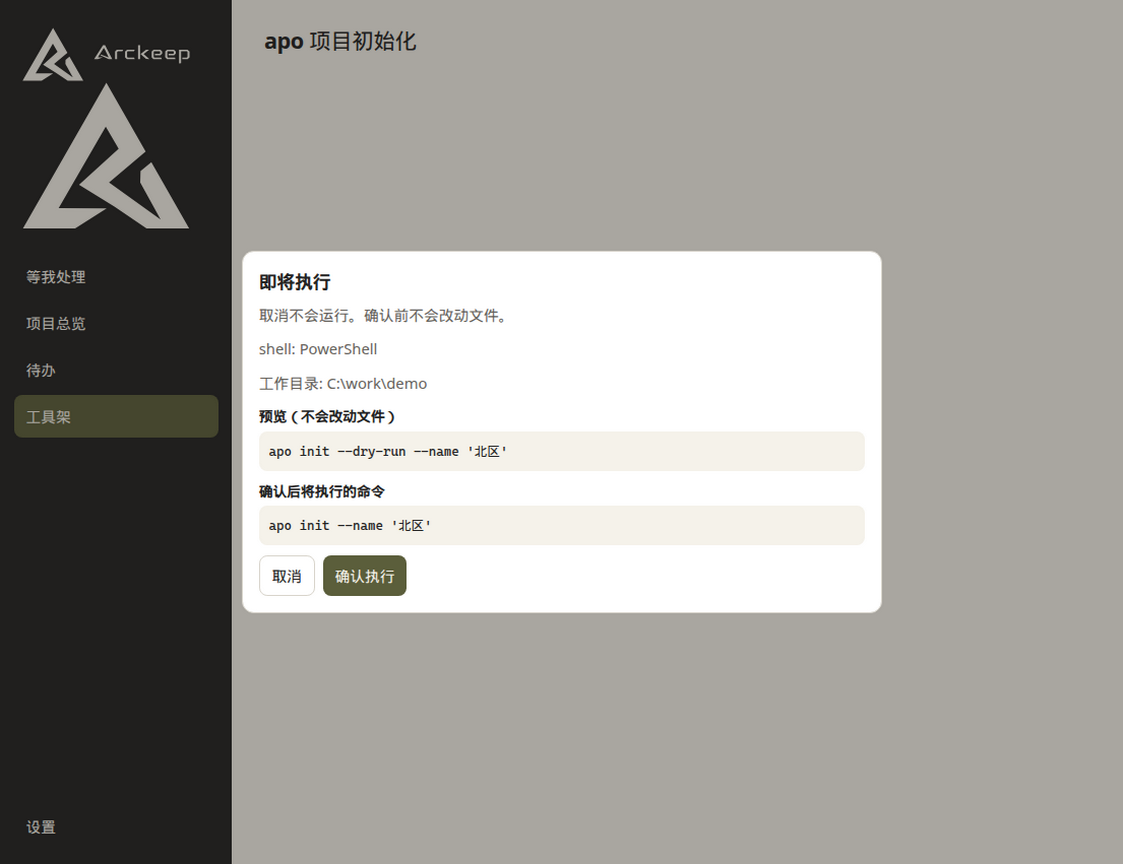
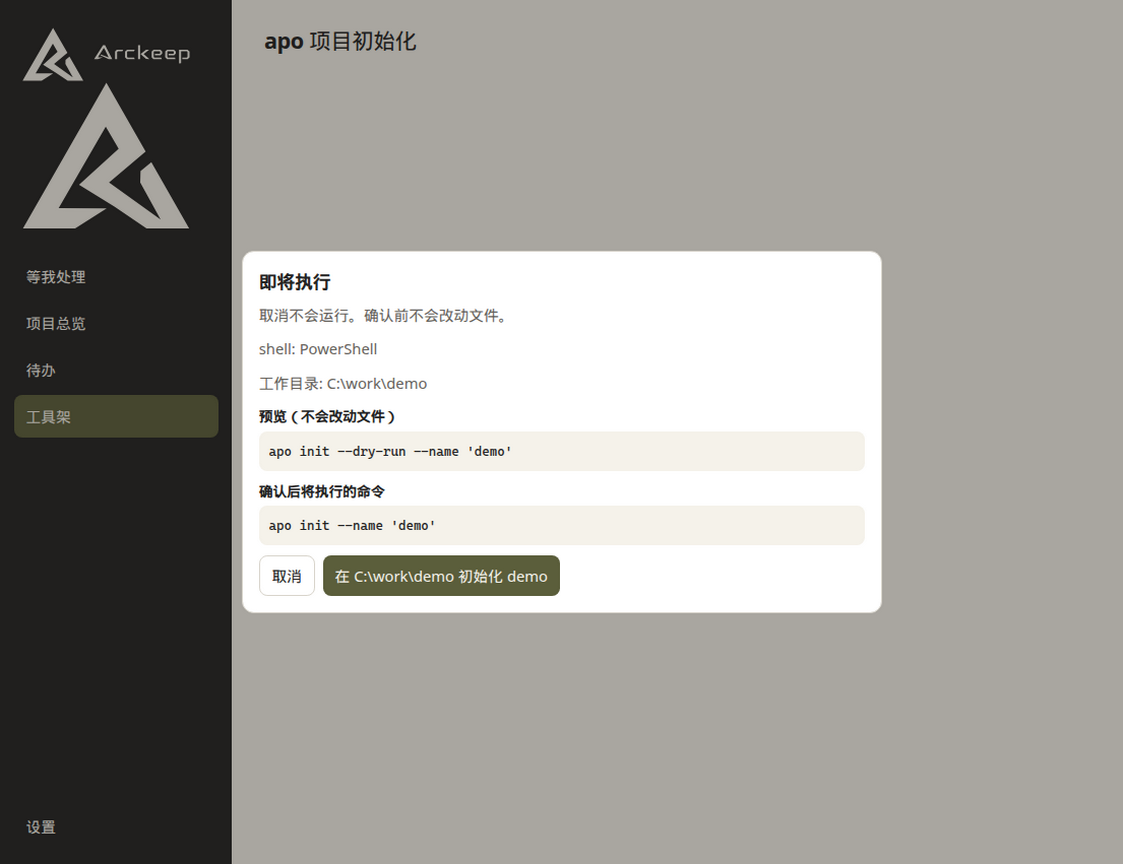
#5 工具架：确认按钮写明实际后果
卡片不再用「演练」或「确认前不会运行」描述会真正执行的初始化。预览里的确认按钮改成带已填参数的动作，例如在指定目录初始化、用编辑器打开、复制派工说明。

Changed region(s): [[0.2805, 0.5938, 0.4987, 0.6875], [0.4052, 0.5, 0.4675, 0.5312]]

diff --git a/test/tool-validate.test.ts b/test/tool-validate.test.ts
@@ -4,7 +4,7 @@ import { toolShelfExampleText } from '../src/main/tool-assets.js'
 import { cmdScriptFromPlan, planShell, powershellScriptFromPlan } from '../src/main/tool-launch.js'
 import { validateToolShelfText } from '../src/main/tool-validate.js'
 import { indexToLocation } from '../src/shared/tools/locate.js'
-import { copyFeedback, errorLine, filterActions, runStatus } from '../src/shared/tools/present.js'
+import { confirmButtonLabel, copyFeedback, errorLine, filterActions, runStatus } from '../src/shared/tools/present.js'
 import { buildPreview } from '../src/shared/tools/preview.js'
 import { powershellLaunchScript } from '../src/shared/tools/quote.js'
 import { collectKnownRepos } from '../src/shared/tools/repos.js'
@@ -25,6 +25,14 @@ describe('tool shelf schema', () => {
     expect(text).not.toMatch(/C:\\Users\\/i)
     expect(text).not.toMatch(/\/home\//)
     expect(text).not.toContain('Dylan5237')
+    expect(text).not.toContain('演练')
+    expect(text).not.toContain('确认前不会运行')
+    for (const action of result.config.actions) {
+      expect(action.title).not.toContain('演练')
+      expect(action.title).not.toContain('确认前不会运行')
+      expect(action.description ?? '').not.toContain('演练')
+      expect(action.description ?? '').not.toContain('确认前不会运行')
+    }
     expect(text).toContain('C:\\\\work\\\\demo')
     expect(text).toContain('apo init --dry-run')
     const apo = result.config.actions[2]
@@ -161,6 +169,17 @@ describe('run outcome, copy, and known repositories', () => {
     const local = buildPreview(open, { repo: 'C:\\work\\notes' }, 'C:\\work\\demo', known)
     expect(local).toMatchObject({ type: 'open-folder', text: 'C:\\work\\notes' })
     expect(() => buildPreview(open, { repo: 'Dylan5237/arckeep' }, 'C:\\work\\demo', known)).toThrow(/已知仓库/)
+  })
+
+  it('names the confirm button after the filled-in effect', () => {
+    const validated = validateToolShelfText(toolShelfExampleText())
+    if (!validated.ok) throw new Error(validated.error)
+    const [openRepo, openFolder, init, note] = validated.config.actions
+    expect(confirmButtonLabel(openRepo, { repo: 'owner/repo' })).toBe('打开 owner/repo')
+    expect(confirmButtonLabel(openFolder, { folder: 'owner/repo' })).toBe('用编辑器打开 owner/repo')
+    expect(confirmButtonLabel(init, { cwd: 'C:\\work\\demo', name: 'demo' })).toBe('在 C:\\work\\demo 初始化 demo')
+    expect(confirmButtonLabel(note, { project: '北区', task: '补齐验收步骤', due: '本周五' })).toBe('复制派工说明')
+    expect(confirmButtonLabel(init, { cwd: 'C:\\work\\demo', name: 'demo' })).not.toBe('确认执行')
   })
 
   it('filters the shelf as the query is typed', () => {

diff --git a/src/main/screenshot-tools.ts b/src/main/screenshot-tools.ts
@@ -49,6 +49,7 @@ const shelfActions: ToolAction[] = [
     id: 'open-repo',
     title: '打开仓库',
     description: '从已知仓库里选一个打开。',
+    confirmLabel: '打开 {{repo}}',
     type: 'open-url',
     url: 'https://github.com/{{repo}}',
     params: [{ key: 'repo', label: '仓库', required: true, input: 'repo' }]
@@ -57,6 +58,7 @@ const shelfActions: ToolAction[] = [
     id: 'open-folder-editor',
     title: '在编辑器中打开文件夹',
     description: '用编辑器打开一个本地文件夹。',
+    confirmLabel: '用编辑器打开 {{folder}}',
     type: 'open-folder',
     editor: 'code',
     path: '{{folder}}',
@@ -65,7 +67,8 @@ const shelfActions: ToolAction[] = [
   {
     id: 'apo-init',
     title: 'apo 项目初始化',
-    description: '预览用 --dry-run，确认后真正初始化。',
+    description: '初始化一个 apo 项目。',
+    confirmLabel: '在 {{cwd}} 初始化 {{name}}',
     type: 'run-command',
     shell: 'powershell',
     cwd: '{{cwd}}',
@@ -80,6 +83,7 @@ const shelfActions: ToolAction[] = [
     id: 'dispatch-note',
     title: '派工说明',
     description: '生成派工说明并复制到剪贴板。',
+    confirmLabel: '复制派工说明',
     type: 'template',
     text: '派工说明\n项目：{{project}}\n任务：{{task}}',
     params: [
@@ -193,11 +197,13 @@ export function buildToolFixture(scene: string): ToolFixture | null {
   }
   if (scene === 'tools-preview') {
     const action = apoAction()
-    const preview = buildPreview(action, { cwd: 'C:\\work\\demo', name: '北区' }, 'C:\\work\\demo')
+    const values = { cwd: 'C:\\work\\demo', name: 'demo' }
+    const preview = buildPreview(action, values, 'C:\\work\\demo')
     return {
       page: 'tools',
       scene: 'preview',
       action,
+      values,
       previewText: preview.text,
       dryRun: preview.dryRun,
       cwd: 'C:\\work\\demo',
@@ -279,7 +285,7 @@ export function toolScreenshotExpectation(scene: string): string | null {
     case 'tools-params':
       return 'north/atlas'
     case 'tools-preview':
-      return '确认后将执行的命令'
+      return '在 C:\\work\\demo 初始化 demo'
     case 'tools-running':
       return '正在初始化北区'
     case 'tools-success':

diff --git a/src/shared/tools/present.ts b/src/shared/tools/present.ts
@@ -1,3 +1,4 @@
+import { expandRaw } from './quote.js'
 import { TOOL_TYPE_LABEL, type ToolAction } from './types.js'
 
 export type RunPhase = 'running' | 'done' | 'aborted'
@@ -24,6 +25,34 @@ export function errorLine(message: string): number | null {
   if (!match) return null
   const line = Number(match[1])
   return Number.isInteger(line) && line > 0 ? line : null
+}
+
+/** Confirm button names the effect, using the values the user actually filled in. */
+export function confirmButtonLabel(action: ToolAction, values: Readonly<Record<string, string>>): string {
+  if (action.confirmLabel) {
+    const allowed: Record<string, string> = {}
+    for (const param of action.params ?? []) allowed[param.key] = values[param.key] ?? param.default ?? ''
+    const label = expandRaw(action.confirmLabel, allowed).replace(/\s+/g, ' ').trim()
+    if (label) return label
+  }
+  if (action.type === 'template') return `复制${action.title}`
+  const filled = (key: string) => {
+    const param = action.params?.find(item => item.key === key)
+    return (values[key] ?? param?.default ?? '').trim()
+  }
+  if (action.type === 'open-folder') {
+    const folder = filled(action.params?.[0]?.key ?? 'folder')
+    return action.editor ? `用编辑器打开 ${folder}` : `打开 ${folder}`
+  }
+  if (action.type === 'open-url') {
+    const repo = filled('repo') || filled(action.params?.[0]?.key ?? 'url')
+    return repo ? `打开 ${repo}` : `打开${action.title}`
+  }
+  const cwd = filled('cwd')
+  const name = filled('name')
+  if (cwd && name && action.title.includes('初始化')) return `在 ${cwd} 初始化 ${name}`
+  if (cwd) return `在 ${cwd} 运行${action.title}`
+  return `运行${action.title}`
 }
 
 export function filterActions(actions: readonly ToolAction[], query: string): ToolAction[] {

diff --git a/src/renderer/tools-page.ts b/src/renderer/tools-page.ts
@@ -1,7 +1,7 @@
 import type { ToolFixture, ToolFixtureInvalid } from '../shared/tools/fixture'
 import { paramKind } from '../shared/tools/params'
 import { createRunGate, formatDuration } from '../shared/tools/preview'
-import { copyFeedback, filterActions, runStatus } from '../shared/tools/present'
+import { confirmButtonLabel, copyFeedback, filterActions, runStatus } from '../shared/tools/present'
 import {
   directoryChoices,
   findKnownRepo,
@@ -294,7 +294,7 @@ function previewBody(preview: ActionPreview): HTMLElement[] {
 function paintPreview(page: HTMLElement, state: PreviewState): void {
   const isTemplate = state.preview.type === 'template'
   const cancel = el('button', { type: 'button', class: 'ghost' }, ['取消'])
-  const confirm = el('button', { type: 'button', class: 'primary' }, [isTemplate ? '复制' : '确认执行'])
+  const confirm = el('button', { type: 'button', class: 'primary' }, [confirmButtonLabel(state.action, state.values)])
   cancel.addEventListener('click', () => {
     state.gate.cancel()
     removeEscape?.()
@@ -538,7 +538,7 @@ function paintFixture(target: HTMLElement, fixture: Exclude<ToolFixture, ToolFix
       mode: 'preview',
       actions: [action],
       action,
-      values: {},
+      values: fixture.values,
       knownRepos: [],
       gate,
       preview: {

diff --git a/src/main/tool-validate.ts b/src/main/tool-validate.ts
@@ -94,12 +94,13 @@ function failure(text: string, pointer: string, message: string): ToolConfigFail
 }
 
 function templatesOf(action: ToolAction): Array<{ field: string, value: string, shell?: ShellKind }> {
-  if (action.type === 'open-url') return [{ field: 'url', value: action.url }]
-  if (action.type === 'template') return [{ field: 'text', value: action.text }]
+  const confirm = action.confirmLabel ? [{ field: 'confirmLabel', value: action.confirmLabel }] : []
+  if (action.type === 'open-url') return [{ field: 'url', value: action.url }, ...confirm]
+  if (action.type === 'template') return [{ field: 'text', value: action.text }, ...confirm]
   if (action.type === 'open-folder') {
-    const fields = [{ field: 'path', value: action.path }]
+    const fields: Array<{ field: string, value: string, shell?: ShellKind }> = [{ field: 'path', value: action.path }]
     if (action.editor) fields.push({ field: 'editor', value: action.editor })
-    return fields
+    return [...fields, ...confirm]
   }
   const fields: Array<{ field: string, value: string, shell?: ShellKind }> = [
     { field: 'command', value: action.command, shell: action.shell }

diff --git a/src/shared/tools/types.ts b/src/shared/tools/types.ts
@@ -16,6 +16,11 @@ interface ToolActionBase {
   title: string
   description?: string
   params?: ToolParam[]
+  /**
+   * Confirm-button text. Placeholders use the values the user filled in.
+   * This is a label, not a shell command.
+   */
+  confirmLabel?: string
 }
 
 export interface OpenUrlAction extends ToolActionBase {

diff --git a/src/shared/tools/fixture.ts b/src/shared/tools/fixture.ts
@@ -20,6 +20,7 @@ export interface ToolFixturePreview {
   page: 'tools'
   scene: 'preview'
   action: ToolAction
+  values: Record<string, string>
   previewText: string
   dryRun?: string
   cwd: string
